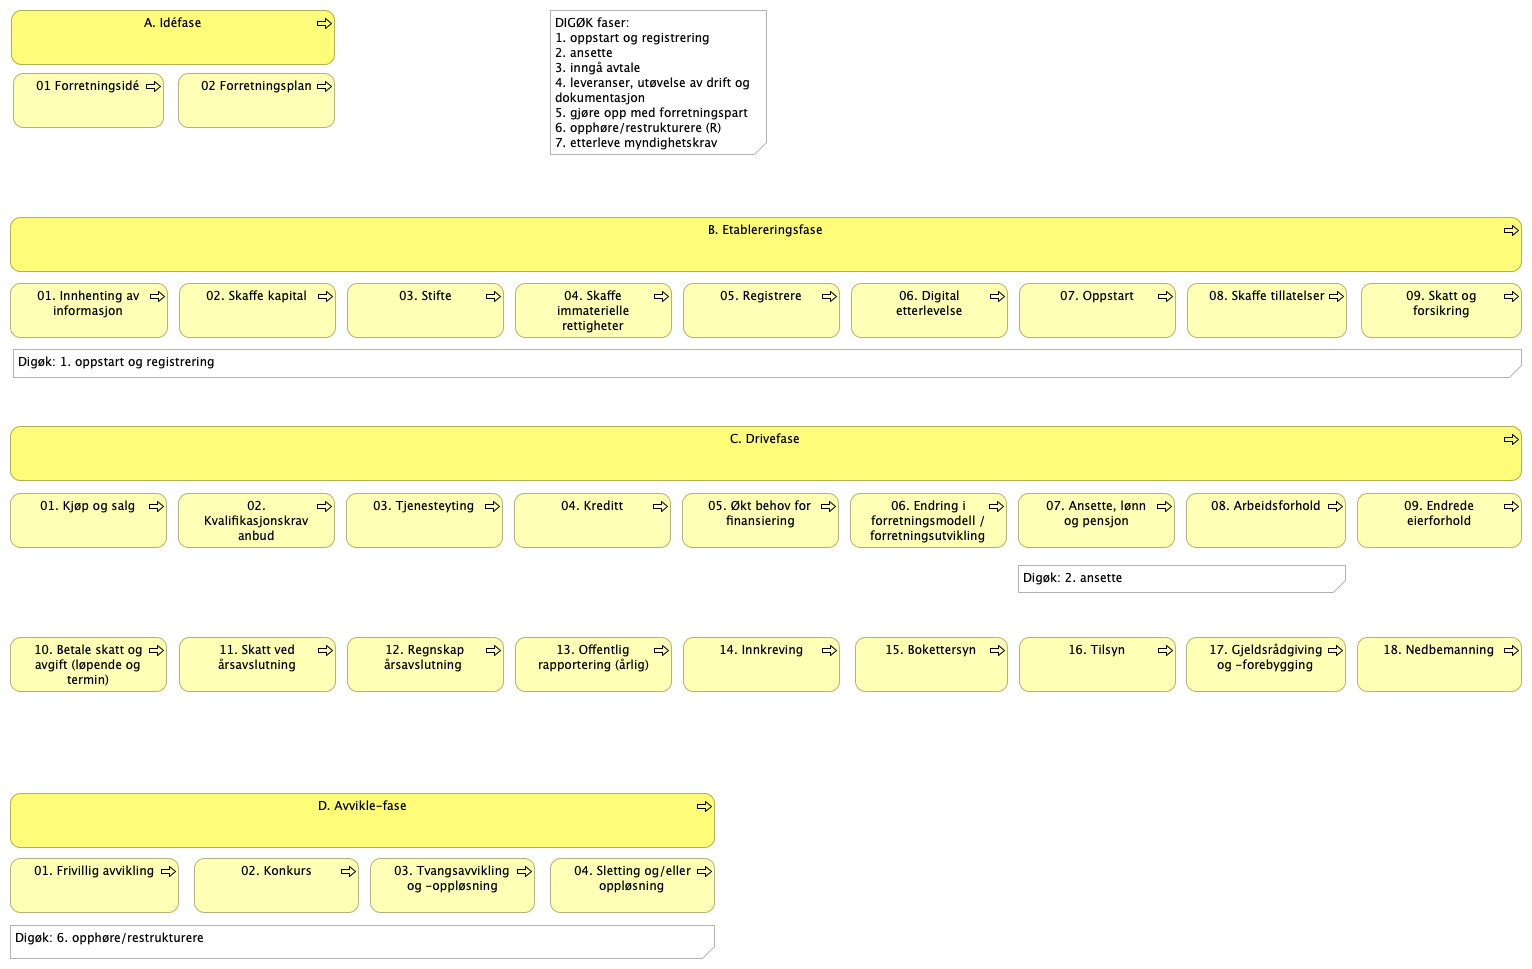
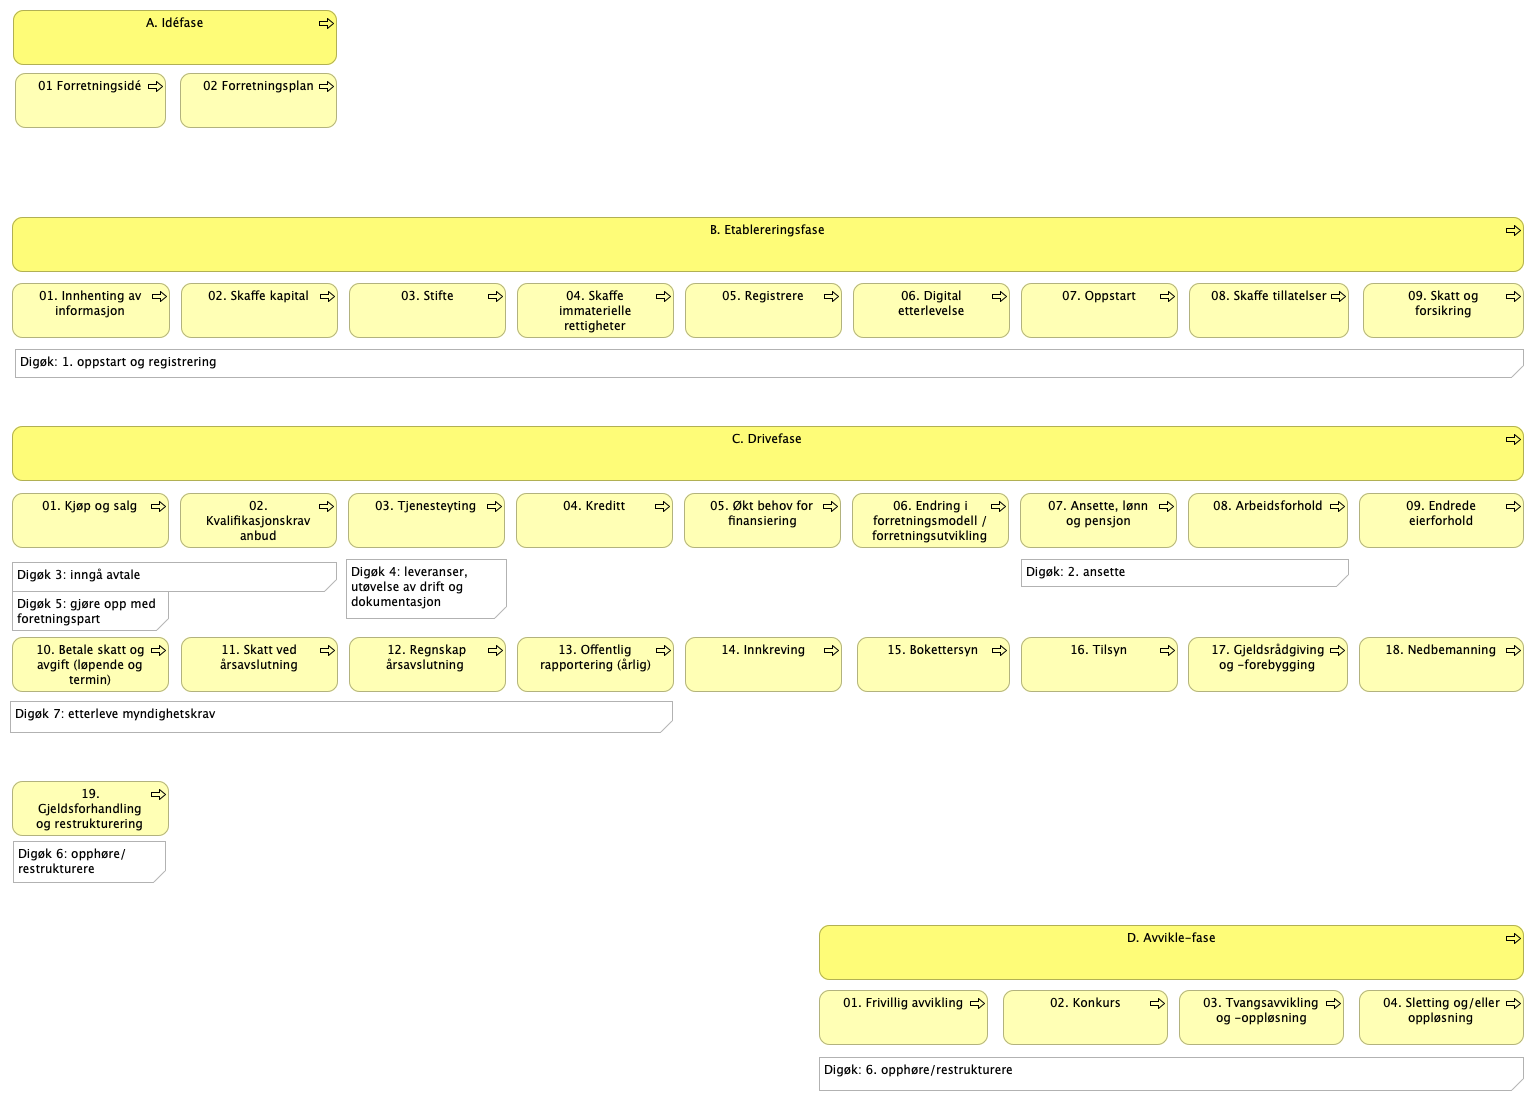
s&d

diff --git a/docs/id-0322705d/views/52bfe295-b97e-4c5e-b8cf-83361cda8c47.html b/docs/id-0322705d/views/52bfe295-b97e-4c5e-b8cf-83361cda8c47.html
@@ -27,43 +27,44 @@
 		<div class="panel-body root-panel-body">
 			<img class="diagram" src="../images/52bfe295-b97e-4c5e-b8cf-83361cda8c47.png" alt="Livshendelsen Starte og drive bedrift (user journey steg vertikalt)" usemap="#52bfe295-b97e-4c5e-b8cf-83361cda8c47map">
 			<map name="52bfe295-b97e-4c5e-b8cf-83361cda8c47map">
-						<area shape="rect" coords="10,283,168,338" href="../elements/id-083b3dd2-d55c-4f5a-9548-76d19ed866f0.html"  target="element">
-						<area shape="rect" coords="11,10,335,65" href="../elements/id-6eda348c-8aeb-427f-b6e9-52211244c8ed.html"  target="element">
-						<area shape="rect" coords="10,793,715,848" href="../elements/id-5c34a84a-d2c7-4e33-b891-8c106043f2ea.html"  target="element">
-						<area shape="rect" coords="10,426,1522,481" href="../elements/id-853791ec-4bd5-43f5-9a7a-6197e1851d8d.html"  target="element">
-						<area shape="rect" coords="178,73,335,128" href="../elements/id-dd6d1ca8-92ce-4a9c-b336-9996a5e63096.html"  target="element">
-						<area shape="rect" coords="179,283,336,338" href="../elements/id-de386266-2ad9-4a84-8ab0-cd6dc5b760cf.html"  target="element">
-						<area shape="rect" coords="347,283,504,338" href="../elements/id-50cd1497-82cc-4789-a4eb-c5e70a4c7d91.html"  target="element">
-						<area shape="rect" coords="683,283,840,338" href="../elements/id-53f174b4-5cfc-487b-851e-86767ab40058.html"  target="element">
-						<area shape="rect" coords="515,283,672,338" href="../elements/id-68b7a21b-4922-4e46-a6b7-58fd41f70f33.html"  target="element">
-						<area shape="rect" coords="851,283,1008,338" href="../elements/id-54d8ed00-b968-4f7d-9d4e-8b1b68ce1573.html"  target="element">
-						<area shape="rect" coords="1019,283,1176,338" href="../elements/id-c1c375c0-db12-46d7-9992-f7f2d91eecd5.html"  target="element">
-						<area shape="rect" coords="1187,283,1347,338" href="../elements/id-7c0bf0f8-9087-47b5-b1b7-20e29814c745.html"  target="element">
-						<area shape="rect" coords="1361,283,1522,338" href="../elements/id-26b21c42-9c54-4270-8d4c-72ed2d8515e8.html"  target="element">
-						<area shape="rect" coords="10,493,167,548" href="../elements/id-85fa73e0-1eee-44f4-a782-6141b154f8ab.html"  target="element">
-						<area shape="rect" coords="178,493,335,548" href="../elements/id-5dd712df-7a24-425a-a8b9-508170a8eec4.html"  target="element">
-						<area shape="rect" coords="514,493,671,548" href="../elements/id-d338f3a4-5ab9-4c6e-8a37-1e2cfe7634eb.html"  target="element">
-						<area shape="rect" coords="346,493,503,548" href="../elements/id-2cc41c01-0be4-4eb3-bd4b-a0c31ba86523.html"  target="element">
-						<area shape="rect" coords="850,493,1007,548" href="../elements/id-ec33dd1c-653e-4bdf-a2e4-7f1bebcffd6a.html"  target="element">
-						<area shape="rect" coords="682,493,839,548" href="../elements/id-1def7d65-fc85-4eb8-914c-c9b73d65ba23.html"  target="element">
-						<area shape="rect" coords="1018,493,1175,548" href="../elements/id-9ac9c13a-dcd7-48e0-aa8f-3cd3d7394a45.html"  target="element">
-						<area shape="rect" coords="1357,493,1522,548" href="../elements/id-47a79694-c1e0-4bf7-a024-98f15d69f9f8.html"  target="element">
-						<area shape="rect" coords="10,637,167,692" href="../elements/id-a8b8e395-d33c-47d0-a3e1-3d9c1c951ddf.html"  target="element">
-						<area shape="rect" coords="515,637,672,692" href="../elements/id-5d71dbe9-71cd-4d8b-a61a-ba36dc2b2b50.html"  target="element">
-						<area shape="rect" coords="179,637,336,692" href="../elements/id-0ce9b1f9-95a9-44b3-bce1-da35f0167923.html"  target="element">
-						<area shape="rect" coords="683,637,840,692" href="../elements/id-cf0a02f5-8aae-410b-8e07-e08855c9f8ba.html"  target="element">
-						<area shape="rect" coords="855,637,1008,692" href="../elements/id-5a1ad4c9-e13c-483f-a5d1-1c10b4486595.html"  target="element">
-						<area shape="rect" coords="1019,637,1176,692" href="../elements/id-c6437e88-843f-4ed1-ae6b-af25af6b3758.html"  target="element">
-						<area shape="rect" coords="1186,637,1346,692" href="../elements/id-e38ed3b9-4892-416d-b15d-468b05945c82.html"  target="element">
-						<area shape="rect" coords="1357,637,1522,692" href="../elements/id-4eab1ca3-8bbe-4ab4-8e9d-461a86fe35e4.html"  target="element">
-						<area shape="rect" coords="10,858,179,913" href="../elements/id-826a278b-94d4-4e39-9350-c2d1732be5bc.html"  target="element">
-						<area shape="rect" coords="194,858,359,913" href="../elements/id-ff93e6bf-4703-46c2-b198-112399320693.html"  target="element">
-						<area shape="rect" coords="13,73,164,128" href="../elements/id-97d664a8-18a5-49a5-8032-46224917c4da.html"  target="element">
-						<area shape="rect" coords="10,217,1522,272" href="../elements/id-9ee94c99-0309-4976-82a6-858e3c457610.html"  target="element">
-						<area shape="rect" coords="1186,493,1346,548" href="../elements/0598c8b4-8e49-4456-a012-d3f65d1815d9.html"  target="element">
-						<area shape="rect" coords="347,637,504,692" href="../elements/ceabef67-9b54-4967-865b-7ac8107470e6.html"  target="element">
-						<area shape="rect" coords="550,858,715,913" href="../elements/aa3198f3-cc67-4a3f-9325-cb6e9142eb17.html"  target="element">
-						<area shape="rect" coords="370,858,535,913" href="../elements/6319be88-019b-4e7d-8128-74b6bb372a89.html"  target="element">
+						<area shape="rect" coords="12,283,170,338" href="../elements/id-083b3dd2-d55c-4f5a-9548-76d19ed866f0.html"  target="element">
+						<area shape="rect" coords="13,10,337,65" href="../elements/id-6eda348c-8aeb-427f-b6e9-52211244c8ed.html"  target="element">
+						<area shape="rect" coords="819,925,1524,980" href="../elements/id-5c34a84a-d2c7-4e33-b891-8c106043f2ea.html"  target="element">
+						<area shape="rect" coords="12,426,1524,481" href="../elements/id-853791ec-4bd5-43f5-9a7a-6197e1851d8d.html"  target="element">
+						<area shape="rect" coords="180,73,337,128" href="../elements/id-dd6d1ca8-92ce-4a9c-b336-9996a5e63096.html"  target="element">
+						<area shape="rect" coords="181,283,338,338" href="../elements/id-de386266-2ad9-4a84-8ab0-cd6dc5b760cf.html"  target="element">
+						<area shape="rect" coords="349,283,506,338" href="../elements/id-50cd1497-82cc-4789-a4eb-c5e70a4c7d91.html"  target="element">
+						<area shape="rect" coords="685,283,842,338" href="../elements/id-53f174b4-5cfc-487b-851e-86767ab40058.html"  target="element">
+						<area shape="rect" coords="517,283,674,338" href="../elements/id-68b7a21b-4922-4e46-a6b7-58fd41f70f33.html"  target="element">
+						<area shape="rect" coords="853,283,1010,338" href="../elements/id-54d8ed00-b968-4f7d-9d4e-8b1b68ce1573.html"  target="element">
+						<area shape="rect" coords="1021,283,1178,338" href="../elements/id-c1c375c0-db12-46d7-9992-f7f2d91eecd5.html"  target="element">
+						<area shape="rect" coords="1189,283,1349,338" href="../elements/id-7c0bf0f8-9087-47b5-b1b7-20e29814c745.html"  target="element">
+						<area shape="rect" coords="1363,283,1524,338" href="../elements/id-26b21c42-9c54-4270-8d4c-72ed2d8515e8.html"  target="element">
+						<area shape="rect" coords="12,493,169,548" href="../elements/id-85fa73e0-1eee-44f4-a782-6141b154f8ab.html"  target="element">
+						<area shape="rect" coords="180,493,337,548" href="../elements/id-5dd712df-7a24-425a-a8b9-508170a8eec4.html"  target="element">
+						<area shape="rect" coords="516,493,673,548" href="../elements/id-d338f3a4-5ab9-4c6e-8a37-1e2cfe7634eb.html"  target="element">
+						<area shape="rect" coords="348,493,505,548" href="../elements/id-2cc41c01-0be4-4eb3-bd4b-a0c31ba86523.html"  target="element">
+						<area shape="rect" coords="852,493,1009,548" href="../elements/id-ec33dd1c-653e-4bdf-a2e4-7f1bebcffd6a.html"  target="element">
+						<area shape="rect" coords="684,493,841,548" href="../elements/id-1def7d65-fc85-4eb8-914c-c9b73d65ba23.html"  target="element">
+						<area shape="rect" coords="1020,493,1177,548" href="../elements/id-9ac9c13a-dcd7-48e0-aa8f-3cd3d7394a45.html"  target="element">
+						<area shape="rect" coords="1359,493,1524,548" href="../elements/id-47a79694-c1e0-4bf7-a024-98f15d69f9f8.html"  target="element">
+						<area shape="rect" coords="12,637,169,692" href="../elements/id-a8b8e395-d33c-47d0-a3e1-3d9c1c951ddf.html"  target="element">
+						<area shape="rect" coords="517,637,674,692" href="../elements/id-5d71dbe9-71cd-4d8b-a61a-ba36dc2b2b50.html"  target="element">
+						<area shape="rect" coords="181,637,338,692" href="../elements/id-0ce9b1f9-95a9-44b3-bce1-da35f0167923.html"  target="element">
+						<area shape="rect" coords="685,637,842,692" href="../elements/id-cf0a02f5-8aae-410b-8e07-e08855c9f8ba.html"  target="element">
+						<area shape="rect" coords="857,637,1010,692" href="../elements/id-5a1ad4c9-e13c-483f-a5d1-1c10b4486595.html"  target="element">
+						<area shape="rect" coords="1021,637,1178,692" href="../elements/id-c6437e88-843f-4ed1-ae6b-af25af6b3758.html"  target="element">
+						<area shape="rect" coords="1188,637,1348,692" href="../elements/id-e38ed3b9-4892-416d-b15d-468b05945c82.html"  target="element">
+						<area shape="rect" coords="1359,637,1524,692" href="../elements/id-4eab1ca3-8bbe-4ab4-8e9d-461a86fe35e4.html"  target="element">
+						<area shape="rect" coords="819,990,988,1045" href="../elements/id-826a278b-94d4-4e39-9350-c2d1732be5bc.html"  target="element">
+						<area shape="rect" coords="1003,990,1168,1045" href="../elements/id-ff93e6bf-4703-46c2-b198-112399320693.html"  target="element">
+						<area shape="rect" coords="15,73,166,128" href="../elements/id-97d664a8-18a5-49a5-8032-46224917c4da.html"  target="element">
+						<area shape="rect" coords="12,217,1524,272" href="../elements/id-9ee94c99-0309-4976-82a6-858e3c457610.html"  target="element">
+						<area shape="rect" coords="1188,493,1348,548" href="../elements/0598c8b4-8e49-4456-a012-d3f65d1815d9.html"  target="element">
+						<area shape="rect" coords="349,637,506,692" href="../elements/ceabef67-9b54-4967-865b-7ac8107470e6.html"  target="element">
+						<area shape="rect" coords="1359,990,1524,1045" href="../elements/aa3198f3-cc67-4a3f-9325-cb6e9142eb17.html"  target="element">
+						<area shape="rect" coords="1179,990,1344,1045" href="../elements/6319be88-019b-4e7d-8128-74b6bb372a89.html"  target="element">
+						<area shape="rect" coords="12,781,169,836" href="../elements/338d48bd-ceb7-4d30-af94-78869df6bb09.html"  target="element">
 
 			</map>
 			<div role="tabpanel">
@@ -140,8 +141,13 @@
 											<tr><td> <a href="../elements/aa3198f3-cc67-4a3f-9325-cb6e9142eb17.html" target="element"> 04. Sletting og/eller oppl&#248;sning </a> </td><td class="i18n-elementtype-BusinessProcess"></td></tr>
 											<!-- DEBUG: Skipping element from class com.archimatetool.model.impl.DiagramModelNote -->
 											<!-- DEBUG: Skipping element from class com.archimatetool.model.impl.DiagramModelNote -->
-											<!-- DEBUG: Skipping element from class com.archimatetool.model.impl.DiagramModelNote -->
 											<tr><td> <a href="../elements/6319be88-019b-4e7d-8128-74b6bb372a89.html" target="element"> 03. Tvangsavvikling og -oppl&#248;sning </a> </td><td class="i18n-elementtype-BusinessProcess"></td></tr>
+											<!-- DEBUG: Skipping element from class com.archimatetool.model.impl.DiagramModelNote -->
+											<tr><td> <a href="../elements/338d48bd-ceb7-4d30-af94-78869df6bb09.html" target="element"> 19. Gjeldsforhandling og restrukturering </a> </td><td class="i18n-elementtype-BusinessProcess"></td></tr>
+											<!-- DEBUG: Skipping element from class com.archimatetool.model.impl.DiagramModelNote -->
+											<!-- DEBUG: Skipping element from class com.archimatetool.model.impl.DiagramModelNote -->
+											<!-- DEBUG: Skipping element from class com.archimatetool.model.impl.DiagramModelNote -->
+											<!-- DEBUG: Skipping element from class com.archimatetool.model.impl.DiagramModelNote -->
 											<!-- DEBUG: Skipping element from class com.archimatetool.model.impl.DiagramModelNote -->
 
 								</tbody>
@@ -158,6 +164,10 @@
 									</tr>
 								</thead>
 								<tbody>
+											<!-- DEBUG: Skipping element from class com.archimatetool.model.impl.DiagramModelNote -->
+											<!-- DEBUG: Skipping element from class com.archimatetool.model.impl.DiagramModelNote -->
+											<!-- DEBUG: Skipping element from class com.archimatetool.model.impl.DiagramModelNote -->
+											<!-- DEBUG: Skipping element from class com.archimatetool.model.impl.DiagramModelNote -->
 											<!-- DEBUG: Skipping element from class com.archimatetool.model.impl.DiagramModelNote -->
 											<!-- DEBUG: Skipping element from class com.archimatetool.model.impl.DiagramModelNote -->
 											<!-- DEBUG: Skipping element from class com.archimatetool.model.impl.DiagramModelNote -->
